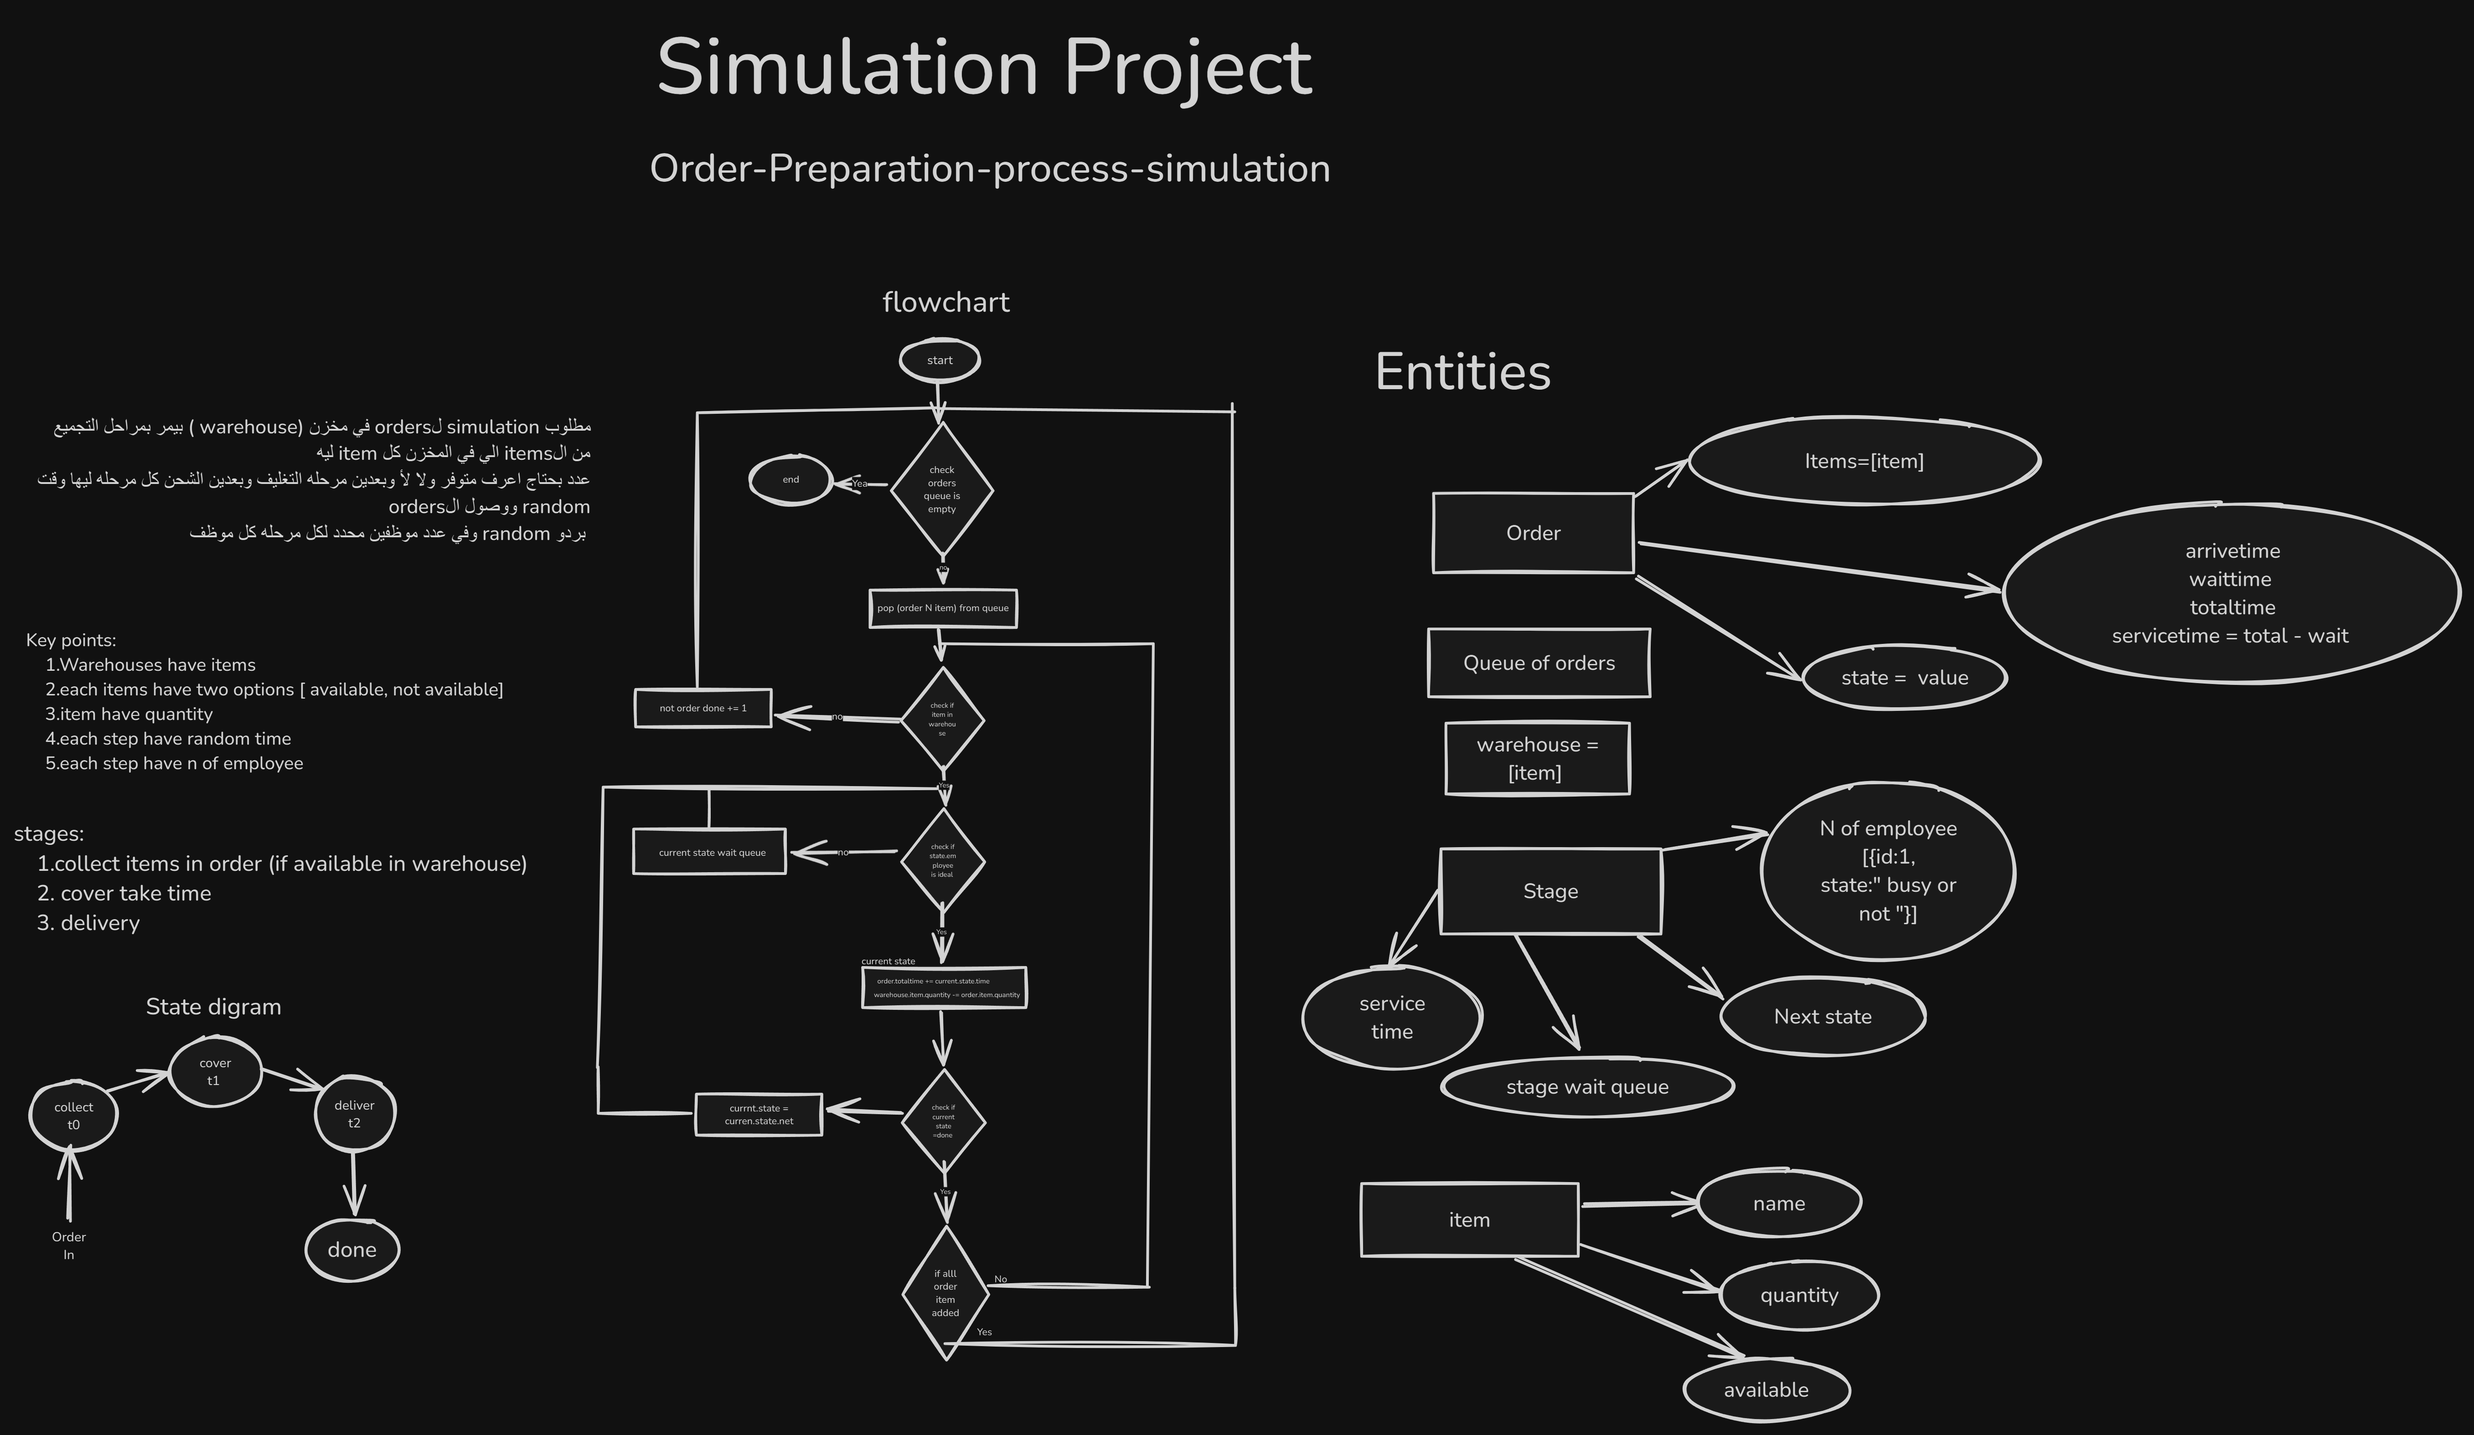
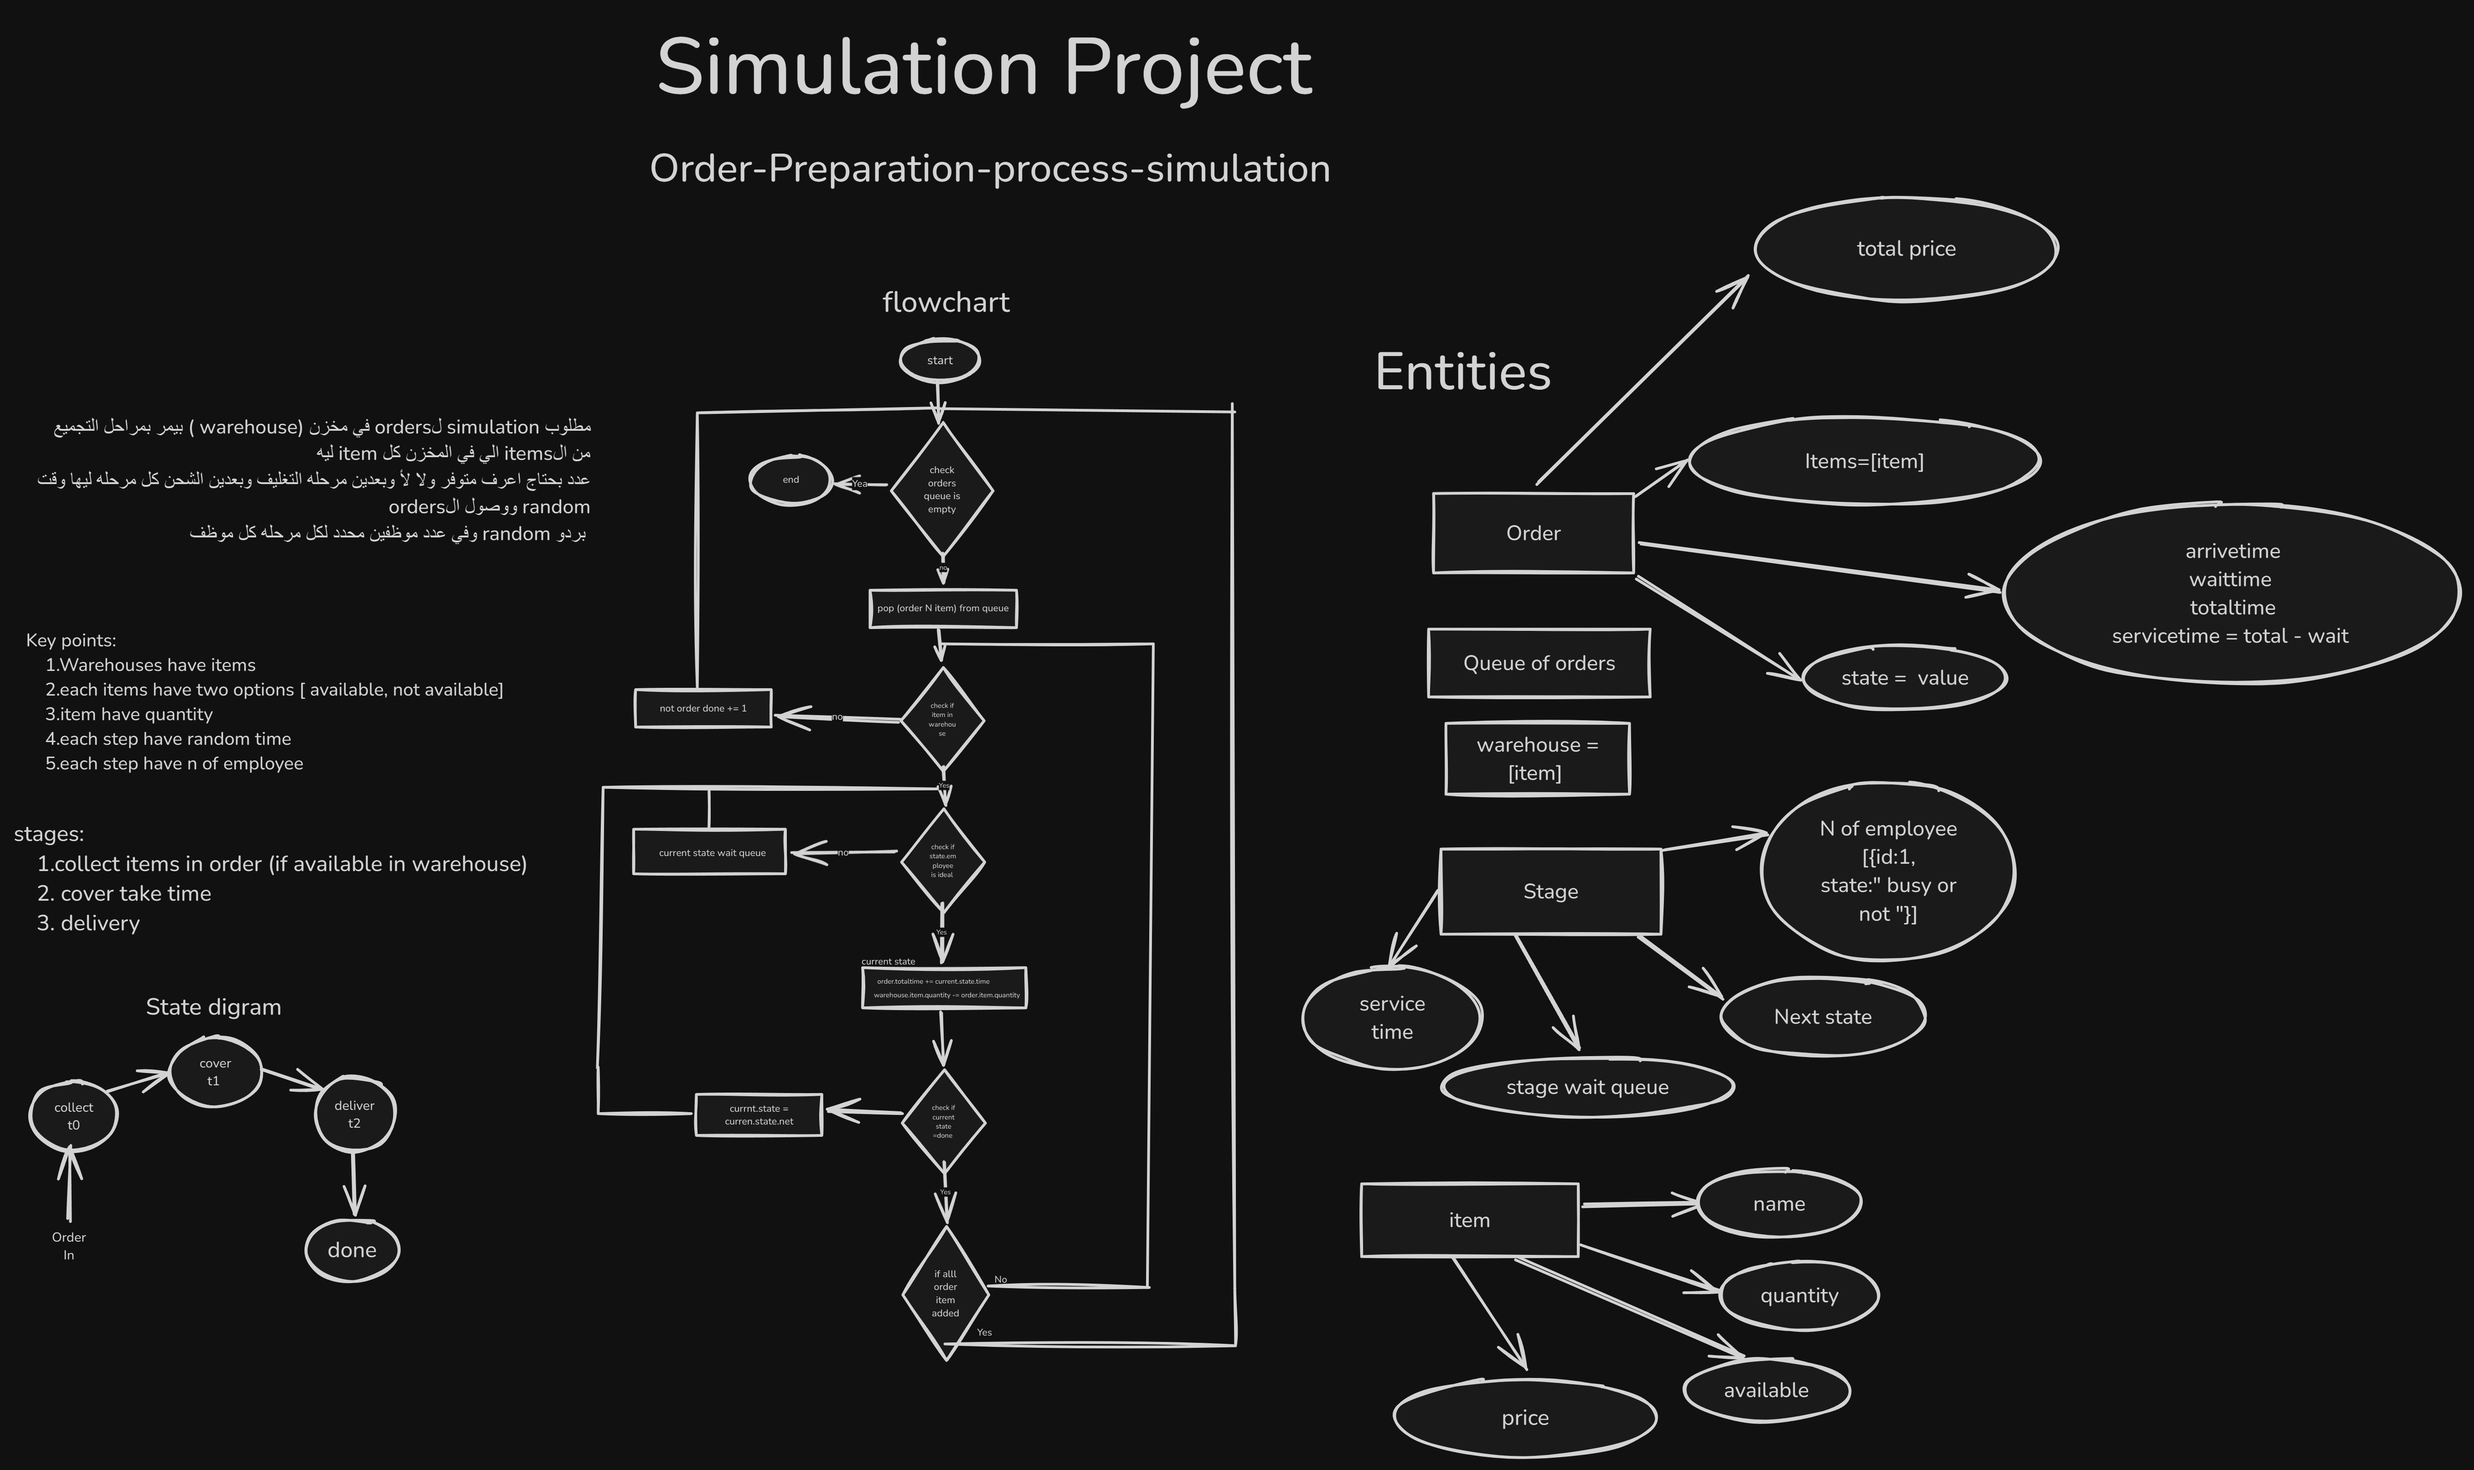
new

diff --git a/Entities.py b/Entities.py
@@ -1,0 +1,3 @@
+# item class (name , quantity , available)
+class Item:
+    def __init__(self, name, price, quantity):
